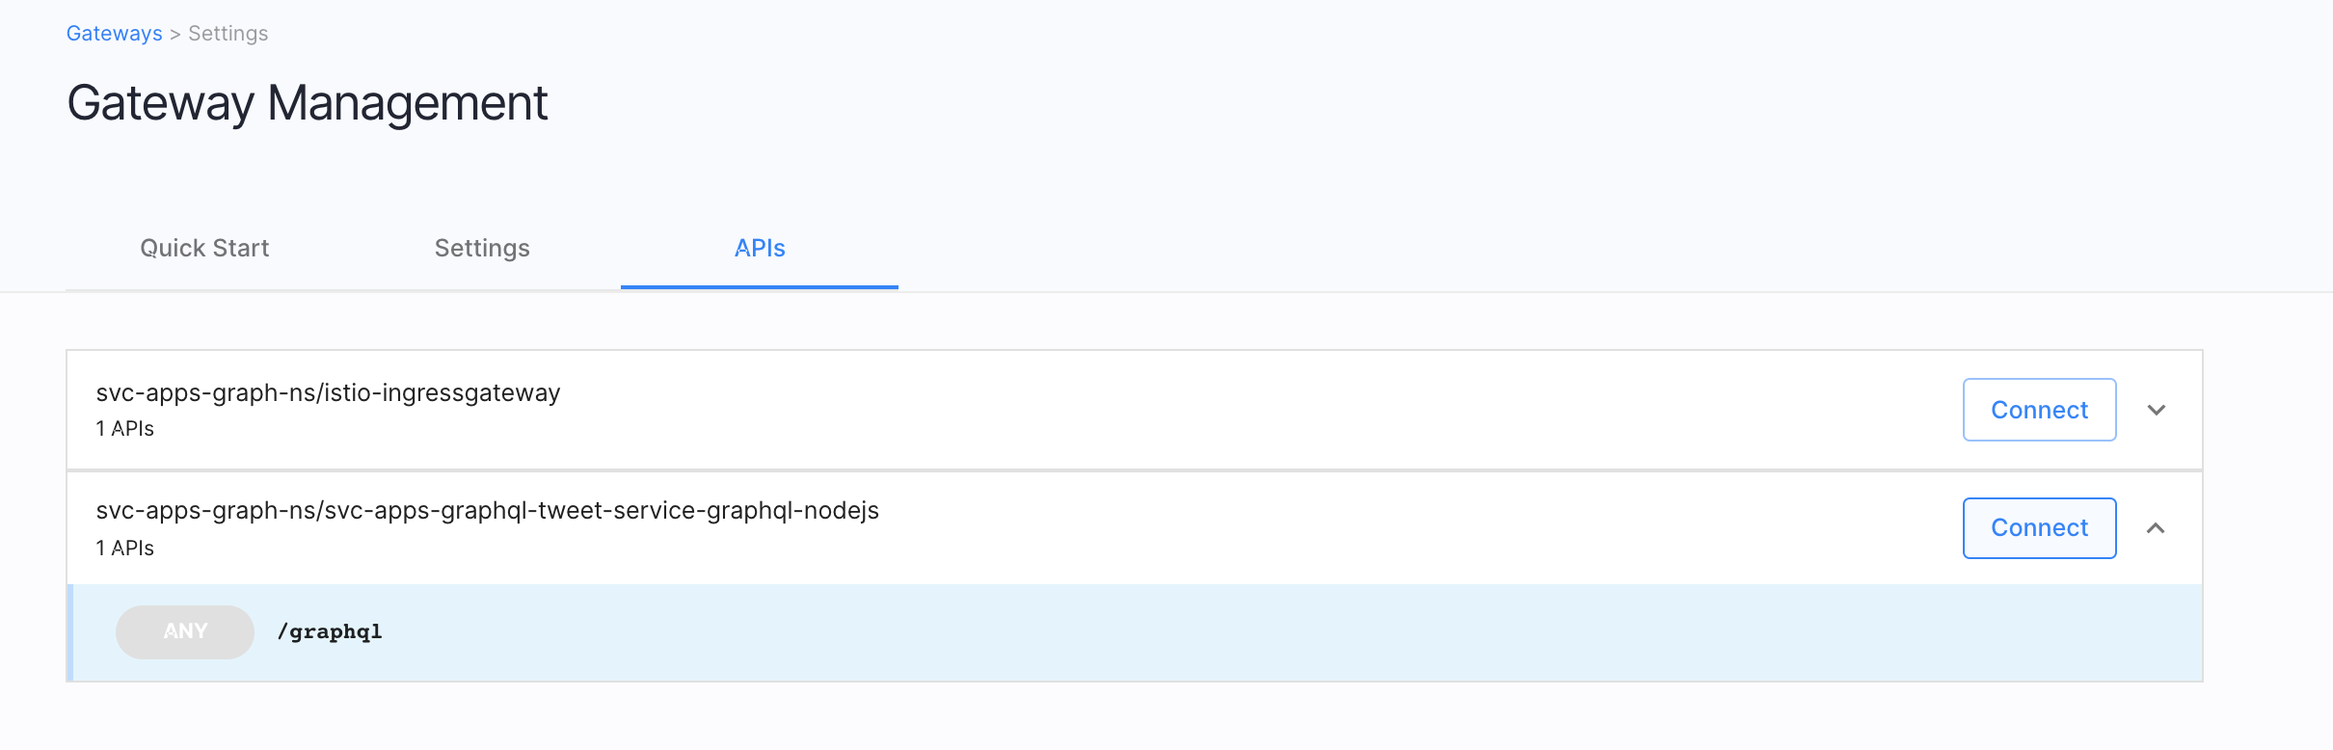
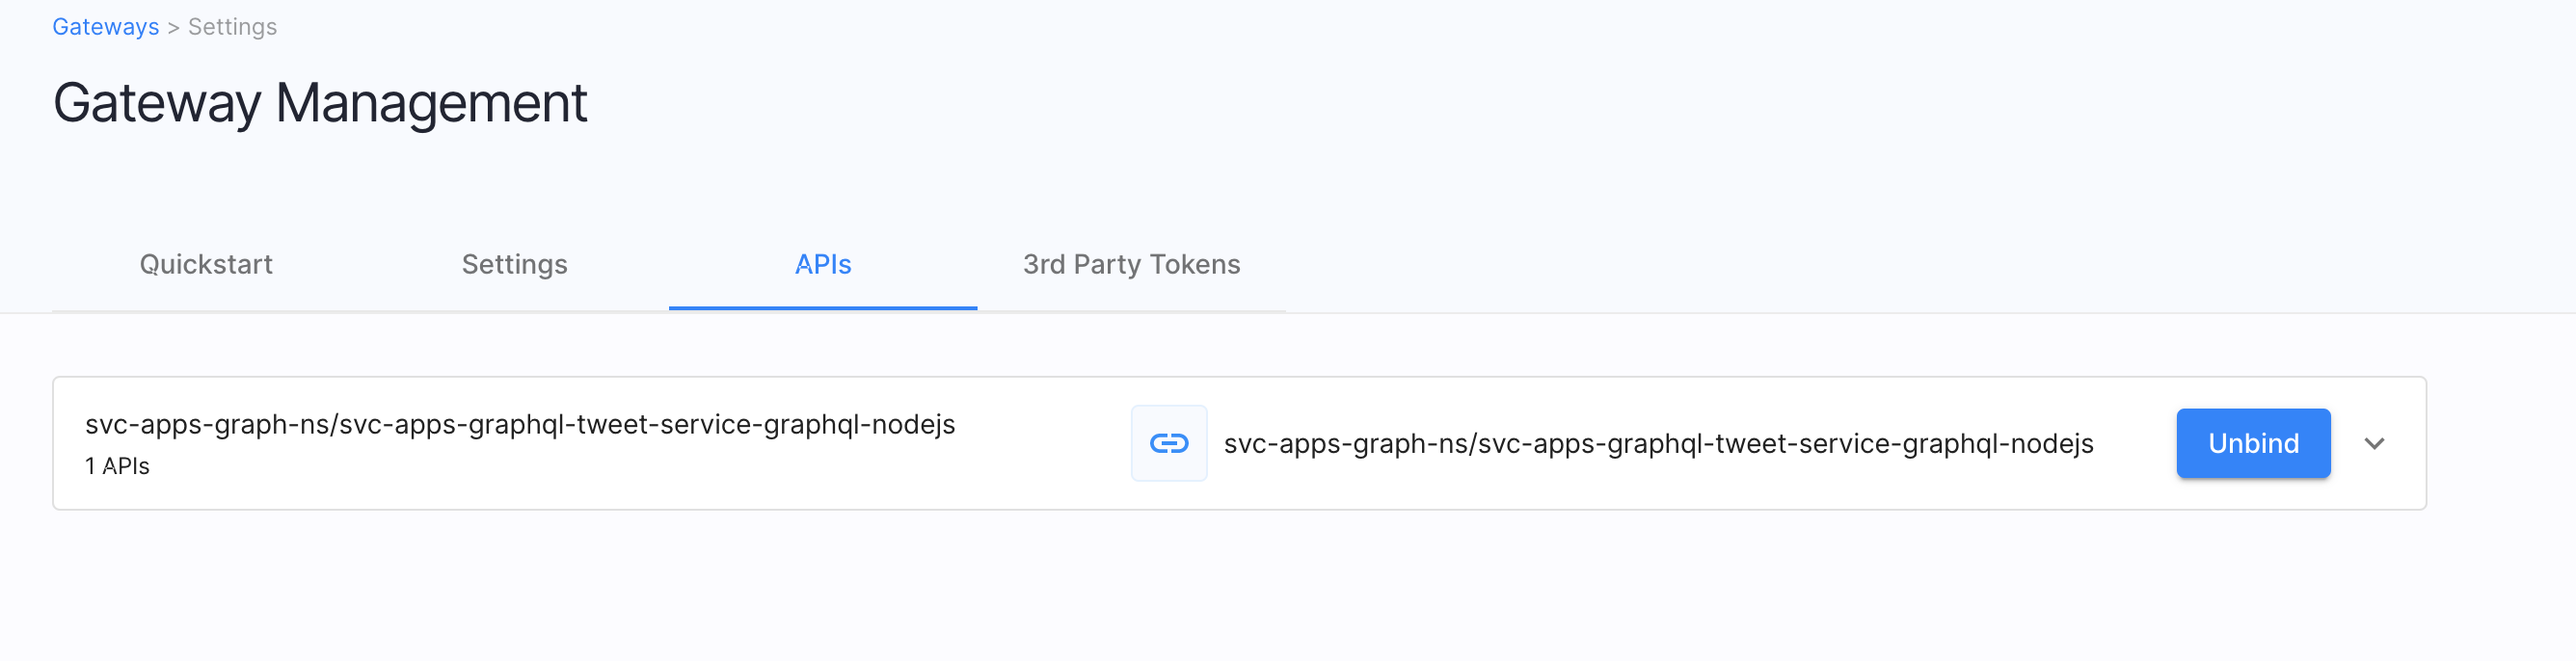
refactor with latest authorizer updates

diff --git a/docs/graphql-externalized-authorization-protect-part2.md b/docs/graphql-externalized-authorization-protect-part2.md
@@ -565,49 +565,39 @@ In this step, we will install and configure the Cloudentity Istio authorizer to 
 
 [Detailed Istio setup concepts and instruction are available here,](https://docs.authorization.cloudentity.com/guides/developer/protect/istio/) in a nutshell the steps are:
 * Navigate to the Cloudentity authorization platform admin console
-* Go to `Enforcement >> Authorizers` and Create a new Istio authorizer
-* Install the `istio-authorizer` in target Kubernetes using the Helm commands provided in installation instructions Step 1.
+* Go to `Enforcement >> Authorizers` and Create a new Istio authorizer. Click on "Bind services automatically". Technically, this means we will register this discovered service as an `OAuth resource server` within
+the Cloudentity platform. 
+* Install the `istio-authorizer` in target Kubernetes using the `Helm` commands provided in installation instructions Step 1.
 
 ---
 **NOTE**
 
-Cloudentity Istio authorizer will be deployed to its own name space (in this case `acp-system`). The authorizers can be deployed to any namespace
+Cloudentity Istio authorizer will be deployed to its own name space (in this case `acp-istio-authorizer`). The authorizers can be deployed to any namespace
 based on the deployment architecture. The namespaces chosen in this article are for demonstration purpose only.
 
 ---
 
+What happens with the given helm command?
+* The above command will create a new `acp-istio-authorizer` namespace
+* deploy the `istio-authorizer` under that namespace
+* Configures the target namespaces the authorizer should scan for service discovery and traffic enforcement
+* Creates a [request body parser Envoy filter resource](https://github.com/cloudentity/acp-helm-charts/blob/master/charts/istio-authorizer/templates/envoyfilter.yaml) for the service pod in the target namespaces (if configured)
+* Creates the [Cloudentity authorization policy resource](https://github.com/cloudentity/acp-helm-charts/blob/master/charts/istio-authorizer/templates/policy.yaml)  as an [Istio external authorization policy](https://istio.io/latest/docs/concepts/security/#implicit-enablement).  External authorization policies are "CUSTOM" actions and will be evaluated first in the Istio authorization policy authorizer.
+
 ![Cloudentity istio authorizer authorization](k8s-component-namespaces.jpeg)
 
-
-Note that for our setup, we are going to install `istio-authorizer` in `acp-system` name space. So first let's create the namespace
-
-```bash
-kubectl apply -f istio-configs/istio-authorizer-helm-kustomize.yaml
+You can modify the command to include an override in the values file
+```
+parseBody:
+  enabled: true
 ```
 
-Then run the command you see in the Cloudentity portal
-
 ```
-helm repo add acp https://charts.cloudentity.io
 helm upgrade --install istio-authorizer acp/istio-authorizer \
-  --set clientCredentials.clientID=******************** \
-  --set clientCredentials.clientSecret=******************************************* \
-  --set issuerURL=https://rtest.us.authz.cloudentity.io/rtest/system
+  -f overide-values.yaml
+  ..
+  ..
 ```
-
-Update settings and run the override file. In this update we will configure:
- ** namespaces to be discovered
- ** add a request body parser sidecar for the service pod. Without this the Cloudentity authorizer sidecar will not be able to parse the GraphQL request body.
-
-```bash
-helm upgrade istio-authorizer acp/istio-authorizer \
-   --values istio-configs/istio-authorizer-helm-value-overrides.yaml \
-   --namespace acp-system \
-   --timeout 5m \
-   --wait
-```
-
-The above command will create a new `acp-system` namespace and deploy the `istio-authorizer` under that namespace. Watch for the pod status (`kubectl get pods -n acp-system`) to make sure the `istio-authorizer` comes up clean and healthy.
 
 
 > NOTE
@@ -623,9 +613,13 @@ The above command will create a new `acp-system` namespace and deploy the `istio
 }
 >```
 
+Step 2 , attach external authorization to Istio
+
+Cloudentity Istio authorizer is designed to be a native Istio extension that uses [Istio External authorizer](https://istio.io/latest/docs/tasks/security/authorization/authz-custom/) model.Add `extensionProviders` under `mesh` section to indicate that `acp-authorizer` will be an external authz provider.
+
 
 ```bash
-kubectl get pods -n acp-system
+kubectl get pods -n acp-istio-authorizer
 ```
 
 ![Cloudentity istio authorizer authorization](healthy-istio-authorizer.png)
@@ -638,7 +632,16 @@ Make sure the traffic path is allowed in case you see the pod status as not heal
 
 ---
 
+#### Restart the service pods
+
+Since we are using automatic Istio injection, we need to recreate the pod so that `envoy-proxy` is injected into the service namespaces
+
+```
+kubectl rollout restart deployment/svc-apps-graphql-tweet-service-graphql-nodejs -n svc-apps-graph-ns
+```
+
 After this step we should see the APIs auto discovered by the Cloudentity authorizer and propagated back up to the the Cloudentity Authorization SaaS platform. Let's check it out in the Cloudentity authorization platform.
+
 
 ### **Cloudentity authorizer and Cloudentity platform communication**
 
@@ -648,28 +651,28 @@ are polled back by the authorizer for policy decisions and enforcement locally.
 
 ![Cloudentity istio authorizer authorization](mp-authorizer-highlight.jpeg)
 
+
+#### Service Communication
+
 Login into the Cloudentity authorization admin portal and navigate to the `Enforcement >> Authorizers`. As shown in the below diagram, the `Last Active` column is an indication of communication status of the local authorizer with the remote platform.
 
 ![Cloudentity istio authorizer authorization](succesful-istio-connection.png)
 
 Regarding the communication security, the local Istio authorizer uses `OAuth` authorization mechanisms to authenticate itself to the Cloudentity authorization SaaS platform before handshaking information.
 
-* **Bind the discovered service**
+#### Discovered service from cluster
 
-Our next step is the process of binding the discovered services. Technically, this means we will register this discovered service as an `OAuth resource server` within
-the Cloudentity platform. If you had checked the box to autobind services while registering the Gateway, you can skip this step.
-
-Let's click on the services under `APIs` tab within the `Gateway` and click `Connect`. It will prompt to create a service (aka `OAuth resource server`). We can later attach scopes to service but for now we will just create a service and connect to it.
+If the business service(workload) is discovered from the remote Kubernets cluster, it should automatically be bound in the ACP platform. Technically, this means
+ Cloudentity authorization platform will register this discovered service as an `OAuth resource server` and can be governed from within the platform).
 
 ![Cloudentity istio authorizer authorization](bind-the-service.png)
 
-![Cloudentity istio authorizer authorization](create-resource-server.png)
+#### Govern GraphQL API and Schema**
 
-* **Explore GraphQL API and Schema**
+At this point, the remote workload should be available to govern within the Cloudentity authorization platform. In case of GraphQL workload, the schema annotated along with the workload
+is also transferred  by the local Cloudentity authorizer to the Cloudentity authorization platform. This enables us to explore the GraphQL schema for the workload and we can apply authorization policies and manage the policies applied to the various constructs within the GraphQL schema.
 
-Now that the service is created within the Cloudentity authorization platform, we can govern the service endpoints. The discovered GraphQL schema transferred by the local Cloudentity authorizer is now visible in the platform for applying policies and managing the policies applied to the various constructs within that GraphQL schema.
-
-![Cloudentity istio authorizer authorization](discovered-graphql-endpoint.png)
+![Cloudentity istio authorizer authorization](graphql-endpoint-mgmt.png)
 
 ![Cloudentity istio authorizer authorization](graphql-schema-discovered.png)
 
@@ -677,114 +680,6 @@ Now that the service is created within the Cloudentity authorization platform, w
 Now we have seen the service is available in the Cloudentity authorization platform for governance and central management of authorization policies, which will automatically be
 downloaded by respective local satelite Cloudentity authorizers bound to the services. This way the Cloudentity authorization platform acts as a very powerful and robust policy management services engine and the Cloudentity authorizers acts as policy runtime services that makes decisions using the policies governed and administered within the central policy management engine.
 
-Let's move back to the local Cloudentity authorizer to enforce traffic protection.
-
-
-### Attach Cloudentity authorizer as Istio external authorization provider
-
-Cloudentity Istio authorizer is designed to be a native Istio extension that uses [Istio External authorizer](https://istio.io/latest/docs/tasks/security/authorization/authz-custom/) model.
-
-Let's enable the Istio extension provider to accept the Cloudentity Istio authorizer as an extension.
-
-![Cloudentity istio authorizer authorization](istio-auth-extn.jpeg)
-
-Edit the `istio config map` to define the external Cloudentity Istio authorizer.
-
-```bash
-kubectl edit configmap istio -n istio-system
-```
-Add `extensionProviders` under `mesh` section to indicate that `acp-authorizer` will be an external authz provider.
-
-```yaml
-data:
-  mesh: |-
-    extensionProviders:
-    - name: "acp-authorizer"
-      envoyExtAuthzGrpc:
-        service: "istio-authorizer.acp-system.svc.cluster.local"
-        port: "9001"
-```
-
- Final Sample config
-
-```yaml
-apiVersion: v1
-data:
-  mesh: |-
-    defaultConfig:
-      discoveryAddress: istiod.istio-system.svc:15012
-      tracing:
-        zipkin:
-          address: zipkin.istio-system:9411
-    extensionProviders:
-    - name: "acp-authorizer"
-      envoyExtAuthzGrpc:
-        service: "istio-authorizer.acp-system.svc.cluster.local"
-        port: "9001"
-    enablePrometheusMerge: true
-    rootNamespace: istio-system
-    trustDomain: cluster.local
-  meshNetworks: 'networks: {}'
-kind: ConfigMap
-metadata:
-  creationTimestamp: "2022-01-11T20:02:58Z"
-  labels:
-    install.operator.istio.io/owning-resource: unknown
-    istio.io/rev: default
-    operator.istio.io/component: Pilot
-    release: istiod
-  managedFields:
-  - apiVersion: v1
-    fieldsType: FieldsV1
-    fieldsV1:
-      f:data:
-        .: {}
-        f:mesh: {}
-        f:meshNetworks: {}
-      f:metadata:
-        f:labels:
-          .: {}
-          f:install.operator.istio.io/owning-resource: {}
-          f:istio.io/rev: {}
-          f:operator.istio.io/component: {}
-          f:release: {}
-    manager: Go-http-client
-    operation: Update
-    time: "2022-01-11T20:02:58Z"
-  name: istio
-  namespace: istio-system
-  resourceVersion: "5345"
-  selfLink: /api/v1/namespaces/istio-system/configmaps/istio
-  uid: d0201eb4-bf46-4322-bb6c-1dd0c045c348
-```
-
-Restart `istiod` for the **external authorizer defintion** to be picked up
-
-```bash
-kubectl rollout restart deployment/istiod -n istio-system
-```
-
-### Enable Cloudentity external authorization
-
-Now that the external authorizer is defined, let's define and attach the [Istio external authorization policy](https://istio.io/latest/docs/concepts/security/#implicit-enablement).  
-External authorization policies are "CUSTOM" actions and will be evaluated first in the Istio authorization policy authorizer.
-
-```bash
-kubectl apply -f istio-configs/istio-mp-authorizer-policy.yaml
-```
-
-At this point, all the platform components are installed and configured and we should
-be able to apply externalized authorization policies in the Cloudentity authorization platform and
-see the policy decision and enforcement at runtime being done by the `Cloudentity Istio authorizers`
- running in a local Kubernetes cluster.
-
-### Restart the service pods
-
-Since we are using automatic Istio injection, we need to recreate the pod so that `envoy-proxy` is injected
-
-```
-kubectl rollout restart deployment/svc-apps-graphql-tweet-service-graphql-nodejs -n svc-apps-graph-ns
-```
 
 ## Enforce externalized dynamic authorization
 
